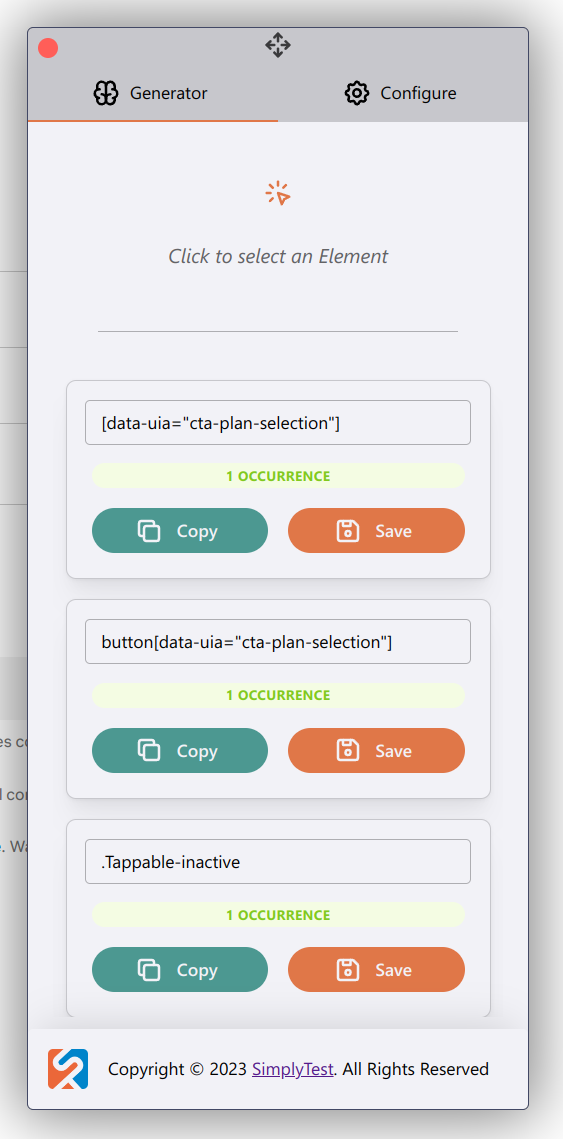
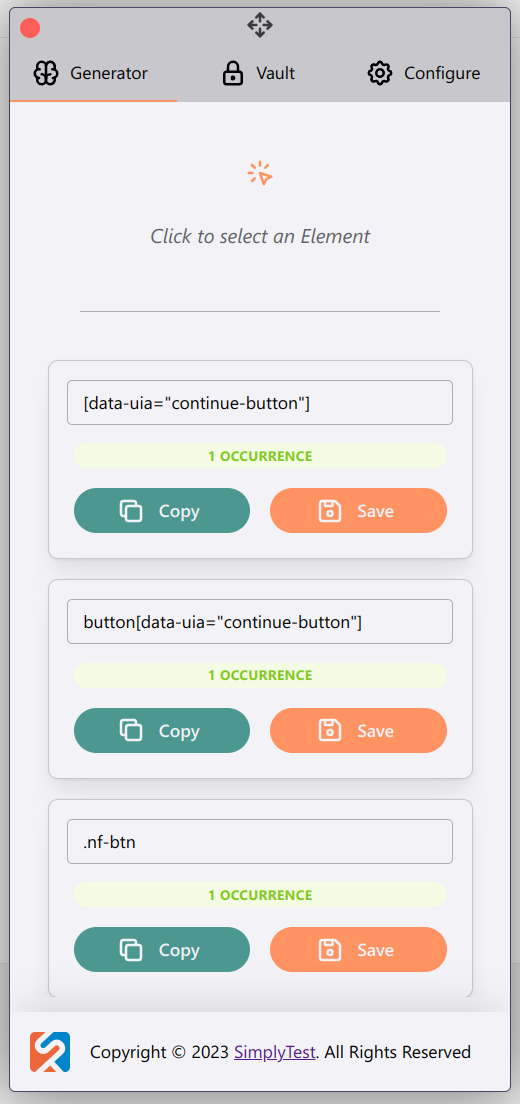
feat: update screenshots

diff --git a/README.md b/README.md
@@ -24,9 +24,10 @@ STargazer is a chrome extension that can generate selectors for a given element.
 
 # 🖼 Screenshots
 
-| ☀ Light                                | 🌙 Dark                               |
-| -------------------------------------- | ------------------------------------ |
-| ![light](assets/screenshots/light.png) | ![dark](assets/screenshots/dark.png) |
+| ☀ Light                                      | 🌙 Dark                                     |
+| -------------------------------------------- | ------------------------------------------ |
+| ![light](assets/screenshots/light.png)       | ![dark](assets/screenshots/dark.png)       |
+| ![light](assets/screenshots/vault-light.png) | ![dark](assets/screenshots/vault-dark.png) |
 
 
 # 📦 Installation
